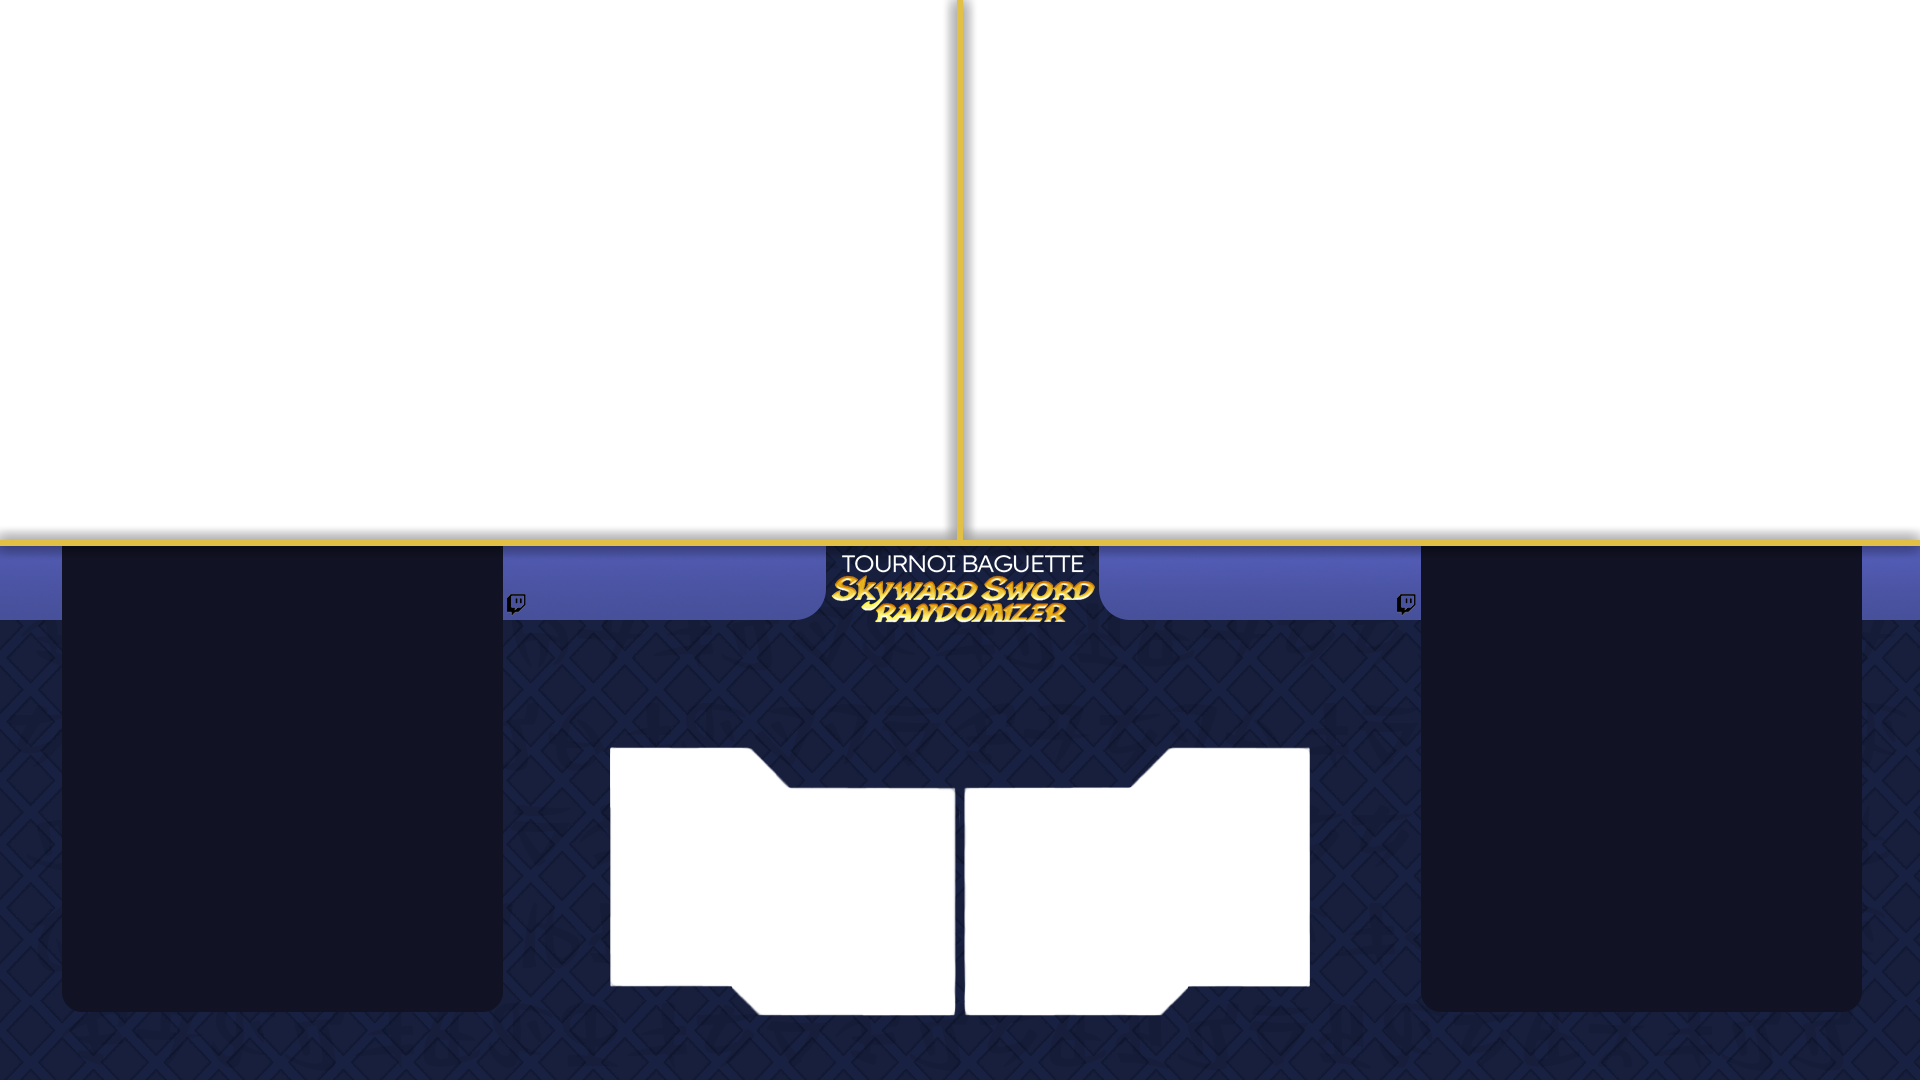
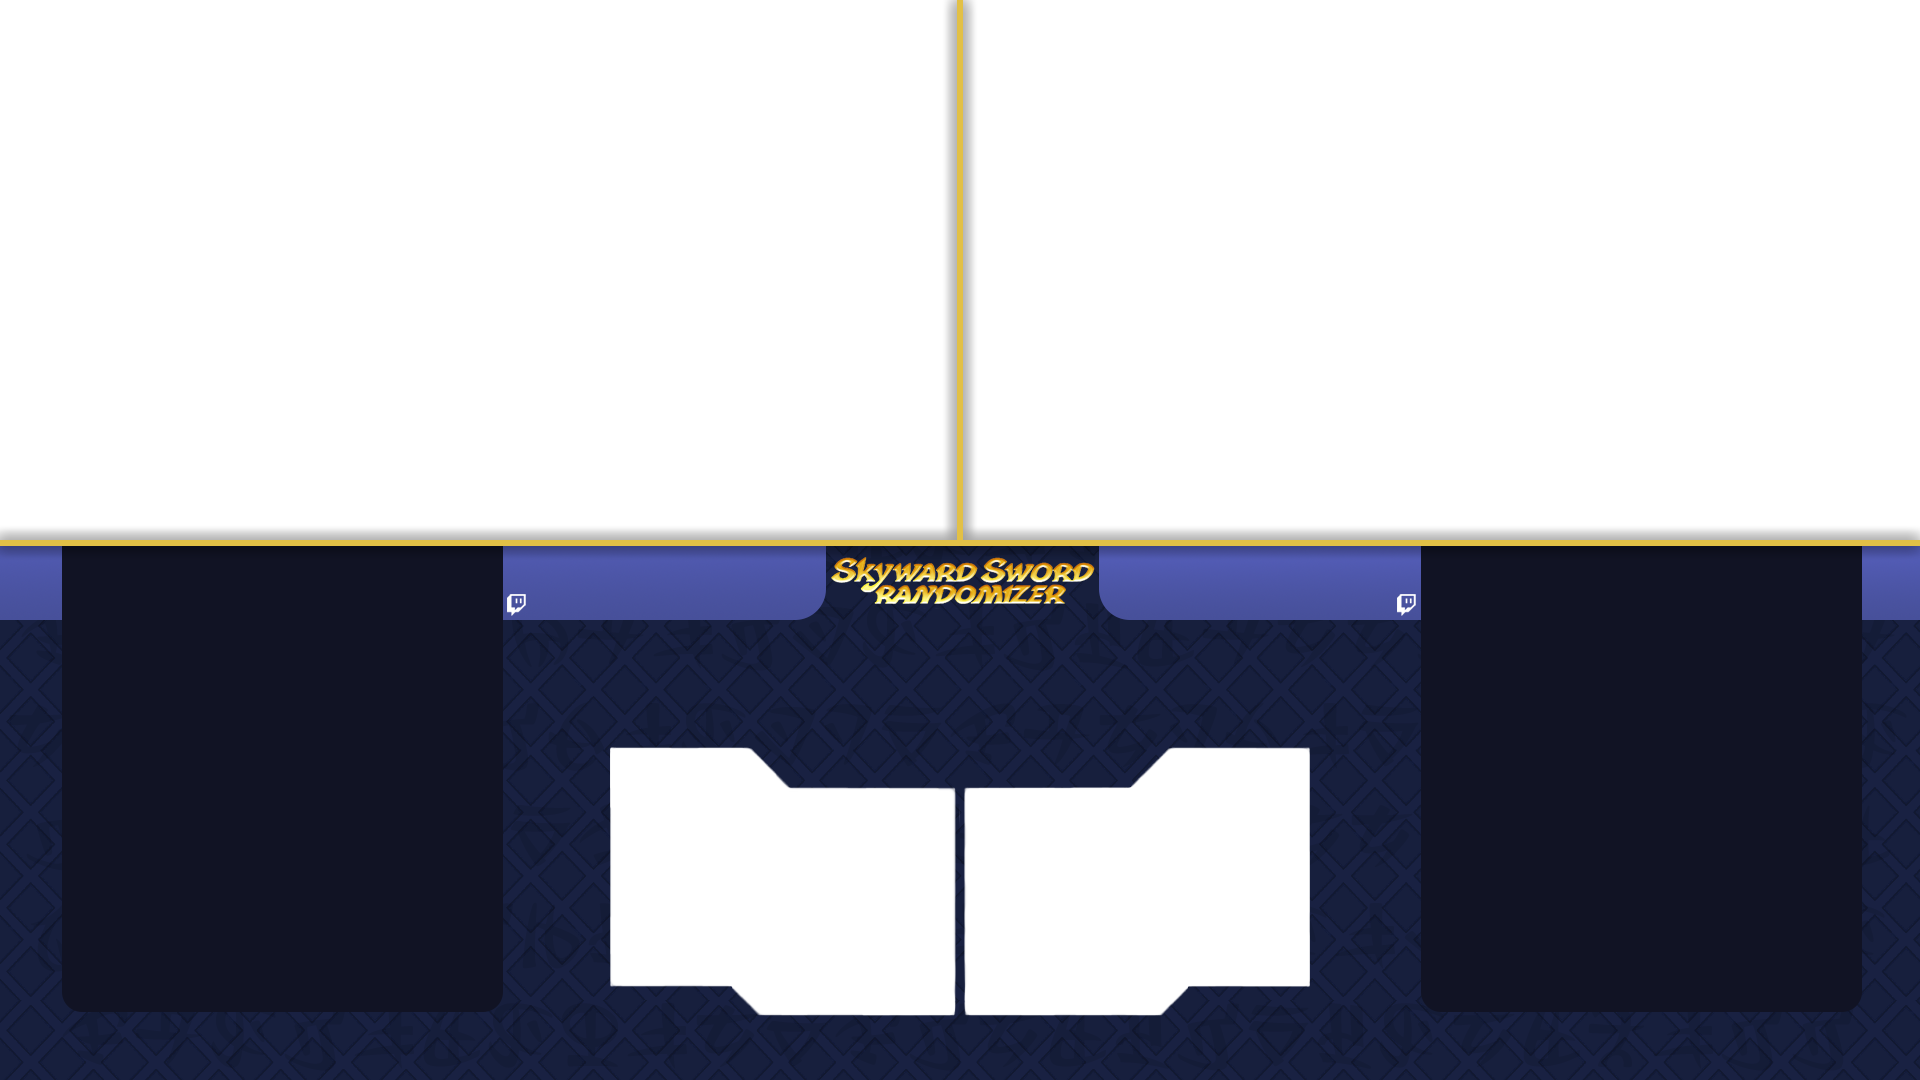
supporte courses casual et permet de raccourcir les noms sur overlays

Changed region(s): [[0.4375, 0.4889, 0.5938, 0.5806], [0.7188, 0.55, 0.75, 0.5806], [0.25, 0.55, 0.2812, 0.5806]]

diff --git a/app/static/overlay/packs/default/live.css b/app/static/overlay/packs/default/live.css
@@ -120,3 +120,40 @@
   transform: scale(0.95);
   transform-origin: top left;
 }
+
+/* -------------------------------------------------- */
+/* Go Mode (overlay)                                  */
+/* -------------------------------------------------- */
+
+.overlay-go-modes {
+  position: absolute;
+  inset: 0;
+  pointer-events: none; /* important pour OBS */
+}
+
+.overlay-go-mode {
+  position: absolute;
+  opacity: 0;
+  transition: opacity 120ms ease;
+}
+
+.overlay-go-mode.is-active {
+  opacity: 1;
+}
+
+/* Go Mode – joueur gauche (slot 1) */
+.overlay-go-mode--slot1 {
+  left: 26%;
+  top: 53%;
+}
+
+/* Go Mode – joueur droit (slot 2) */
+.overlay-go-mode--slot2 {
+  right: 26%;
+  top: 53%;
+}
+.overlay-go-video {
+  width: clamp(156px, 16vw, 228px);
+  height: auto;
+  display: block;
+}

diff --git a/app/templates/restream/overlay_live.html b/app/templates/restream/overlay_live.html
@@ -18,8 +18,8 @@
 
     <!-- Textes -->
     <div class="live-texts">
-      <div class="live-player live-player-left">{{ live.left_name }}</div>
-      <div class="live-player live-player-right">{{ live.right_name }}</div>
+      <div class="live-player live-player-left">{{ live.left_name | overlay_player_name}}</div>
+      <div class="live-player live-player-right">{{ live.right_name | overlay_player_name}}</div>
 
       <div class="live-title">{{ live.title }}</div>
 

diff --git a/app/templates/restream/overlay_next.html b/app/templates/restream/overlay_next.html
@@ -28,11 +28,11 @@
         </div>
 
         <div class="next-player next-player-left">
-          {{ next.left_name }}
+          {{ next.left_name | overlay_player_name}}
         </div>
 
         <div class="next-player next-player-right">
-          {{ next.right_name }}
+          {{ next.right_name | overlay_player_name}}
         </div>
 
         <div class="next-label">

diff --git a/app/templates/restream/overlay_intro.html b/app/templates/restream/overlay_intro.html
@@ -28,11 +28,11 @@
       </div>
 
       <div class="intro-player intro-player-left">
-        {{ intro.left_name }}
+        {{ intro.left_name | overlay_player_name}}
       </div>
 
       <div class="intro-player intro-player-right">
-        {{ intro.right_name }}
+        {{ intro.right_name | overlay_player_name}}
       </div>
 
     </div>

diff --git a/app/admin/routes.py b/app/admin/routes.py
@@ -9,13 +9,14 @@ from werkzeug.security import generate_password_hash
 import os
 from app.modules.text import slugify, _canonical_key, normalize_group_name
 from datetime import datetime
-from app.modules.tournaments import get_tournament_phases
+from app.modules.tournaments import get_tournament_phases, is_reserved_casual_prefix
 import secrets
 import string
 import json
 from app.modules.tracker.registry import get_available_trackers, get_tracker_definition
 from app.modules.tracker.presets import list_presets, create_preset, load_preset, save_preset, rename_preset, delete_preset
 from app.modules.tracker.games.ssr.preset import build_default_preset as ssr_default_preset
+
 
 @admin_bp.route("/")
 @login_required
@@ -204,6 +205,8 @@ def games_add():
         return redirect(url_for("admin.games_list"))
 
     db = get_db()
+
+    # 1) Création du jeu
     db.execute(
         """
         INSERT INTO games (name, short_name, color)
@@ -211,6 +214,41 @@ def games_add():
         """,
         (name, short_name, color)
     )
+
+    # Récupère l'id du jeu fraîchement créé (SQLite)
+    game_id = db.execute("SELECT last_insert_rowid()").fetchone()[0]
+
+    # 2) Auto-création du tournoi CASUAL associé
+    game_slug = slugify(name)  # ou slugify(short_name) si vous préférez un slug plus stable
+    casual_tournament_name = f"[CASUAL] {name}"
+    casual_tournament_slug = f"casual-{game_slug}"
+
+    existing = db.execute(
+        """
+        SELECT id
+        FROM tournaments
+        WHERE game_id = ? AND slug = ?
+        """,
+        (game_id, casual_tournament_slug)
+    ).fetchone()
+
+    if not existing:
+        db.execute(
+            """
+            INSERT INTO tournaments
+                (name, slug, game_id, status, source, metadata, created_at)
+            VALUES (?, ?, ?, ?, 'internal', ?, ?)
+            """,
+            (
+                casual_tournament_name,
+                casual_tournament_slug,
+                game_id,
+                "draft",          # ou "active" si tu veux qu'il soit immédiatement utilisable
+                "",               # metadata
+                datetime.now().isoformat(),
+            )
+        )
+
     db.commit()
 
     flash("Jeu ajouté avec succès.", "success")
@@ -693,6 +731,9 @@ def tournaments_create():
 
         if not name:
             errors["name"] = "Le nom du tournoi est obligatoire."
+            
+        if name and is_reserved_casual_prefix(name):
+            errors["name"] = "Le préfixe [CASUAL] est réservé aux tournois système."
 
         if not game_id:
             errors["game_id"] = "Un jeu doit être sélectionné."
@@ -755,11 +796,14 @@ def admin_tournament_edit(tournament_id):
     if request.method == "POST":
         name = request.form.get("name", "").strip()
         game_id = request.form.get("game_id")
-        status = request.form.get("status")
+        status = request.form.get("status", tournament["status"])
         metadata = request.form.get("metadata", "").strip()
 
         if not name:
             errors["name"] = "Le nom du tournoi est obligatoire."
+            
+        if name and is_reserved_casual_prefix(name):
+            errors["name"] = "Le préfixe [CASUAL] est réservé aux tournois système."
 
         if not game_id:
             errors["game_id"] = "Un jeu doit être sélectionné."
@@ -769,26 +813,26 @@ def admin_tournament_edit(tournament_id):
             abort(400)
 
         # 🔒 Règle métier existante
-        if tournament["status"] == "finished" and status != "finished":
-            flash(
-                "Un tournoi terminé ne peut pas être réactivé.",
-                "error"
-            )
-            return redirect(
-                url_for("admin.admin_tournament_edit", tournament_id=tournament_id)
-            )
+        if not errors :
+            if tournament["status"] == "finished" and status != "finished":
+                flash(
+                    "Un tournoi terminé ne peut pas être réactivé.",
+                    "error"
+                )
+                return redirect(
+                    url_for("admin.admin_tournament_edit", tournament_id=tournament_id)
+                )
 
-        # 🔒 NOUVELLE règle métier (Phase 6)
-        if status == "active" and not phases:
-            flash(
-                "Impossible d'activer le tournoi : aucune phase n'est définie.",
-                "error"
-            )
-            return redirect(
-                url_for("admin.admin_tournament_edit", tournament_id=tournament_id)
-            )
+            # 🔒 NOUVELLE règle métier (Phase 6)
+            if status == "active" and not phases:
+                flash(
+                    "Impossible d'activer le tournoi : aucune phase n'est définie.",
+                    "error"
+                )
+                return redirect(
+                    url_for("admin.admin_tournament_edit", tournament_id=tournament_id)
+                )
 
-        if not errors:
             db.execute(
                 """
                 UPDATE tournaments

diff --git a/app/modules/tournaments.py b/app/modules/tournaments.py
@@ -1,4 +1,6 @@
 import json
+import re
+from flask import abort
 
 def get_tournament_phases(db, tournament_id):
     rows = db.execute(
@@ -42,3 +44,78 @@ def get_tournament_phases(db, tournament_id):
         phases.append(phase)
 
     return phases
+
+
+def is_reserved_casual_prefix(title: str) -> bool:
+    """
+    Returns True if the tournament title uses the reserved [CASUAL] prefix.
+    This prefix is reserved for system-created casual tournaments.
+    """
+    if not title:
+        return False
+
+    return title.strip().upper().startswith("[CASUAL")
+
+def is_casual_tournament(name: str) -> bool:
+    return bool(name) and name.strip().upper().startswith("[CASUAL")
+
+
+def ensure_public_tournament(tournament):
+    if not tournament:
+        return  # important pour laisser le fallback external
+    if tournament["name"] and tournament["name"].strip().upper().startswith("[CASUAL"):
+        abort(404)
+
+
+CASUAL_PREFIX_RE = re.compile(r"^\s*\[CASUAL[^\]]*\]\s*", re.IGNORECASE)
+
+def overlay_tournament_name(name: str) -> str:
+    """
+    Tournament name for OBS overlays: removes [CASUAL...] prefix if present.
+    Keeps the rest unchanged.
+    """
+    if not name:
+        return ""
+    return CASUAL_PREFIX_RE.sub("", name).strip()
+
+
+###########################################
+### pour les noms trop long
+###########################################
+
+
+# 1) mapping exact (le plus sûr)
+OVERLAY_NAME_ALIASES = {
+    "Pacmanpowerghost": "Pacman",
+    "Fireworkspinner": "Firework",
+    "YourAverageLink": "YAL",
+}
+
+# 2) mapping "contient" (exemple au cas où)
+OVERLAY_NAME_CONTAINS = [
+    # (pattern, replacement)
+    (re.compile(r"Team Baguette Ultimate", re.IGNORECASE), "TB Ultimate"),
+]
+
+def overlay_player_name(name: str) -> str:
+    """
+    Return a player name formatted for OBS overlays.
+    - Exact alias mapping first
+    - Then 'contains' replacements
+    - Fallback to original
+    """
+    if not name:
+        return ""
+
+    n = name.strip()
+
+    # exact match first (most predictable)
+    if n in OVERLAY_NAME_ALIASES:
+        return OVERLAY_NAME_ALIASES[n]
+
+    # optional: contains rules
+    for rx, repl in OVERLAY_NAME_CONTAINS:
+        if rx.search(n):
+            return rx.sub(repl, n)
+
+    return n

diff --git a/app/restream/routes.py b/app/restream/routes.py
@@ -21,6 +21,7 @@ from app.modules.tracker.registry import get_available_trackers, get_tracker_def
 from app.modules.tracker.presets import list_presets, load_preset
 from app.restream.queries import get_active_restream_by_slug, get_match_teams, get_next_planned_match_for_overlay, simplify_restream_title, split_commentators
 from app.modules.overlay.registry import resolve_overlay_pack_for_match
+from app.modules.tournaments import overlay_tournament_name
 
 # === Dossiers ===
 
@@ -1407,7 +1408,7 @@ def restream_overlay_intro(slug: str):
         (restream["match_id"],),
     ).fetchone()
 
-    tournament_name = row["tournament_name"] if row and row["tournament_name"] else ""
+    tournament_name = overlay_tournament_name(row["tournament_name"]) if row and row["tournament_name"] else ""
 
     overlay_pack = resolve_overlay_pack_for_match(db, restream["match_id"])
     
@@ -1469,7 +1470,8 @@ def restream_overlay_next(slug: str):
     ).fetchone()
 
     tournament_id = row["tournament_id"] if row else None
-    tournament_name = row["tournament_name"] if row and row["tournament_name"] else ""
+    tournament_name = overlay_tournament_name(row["tournament_name"]) if row and row["tournament_name"] else ""
+    
 
     overlay_pack = resolve_overlay_pack_for_match(db, restream["match_id"])
 

diff --git a/app/__init__.py b/app/__init__.py
@@ -9,6 +9,7 @@ from .database import close_db, get_db
 from app.jinja_filters import display_team_name
 from app.errors import register_error_handlers
 from pathlib import Path
+from app.modules.tournaments import is_casual_tournament, overlay_player_name
 
 login_manager = LoginManager()
 
@@ -51,6 +52,8 @@ def create_app():
     app.jinja_env.filters["format_datetime"] = format_datetime
     app.jinja_env.filters["team_name"] = display_team_name
     app.jinja_env.globals["current_tournament_slug"] = "ssr-s4"
+    app.jinja_env.globals["is_casual_tournament"] = is_casual_tournament
+    app.jinja_env.filters["overlay_player_name"] = overlay_player_name
 
 
     app.config["TOURNAMENTS"] = TOURNAMENTS

diff --git a/app/main/routes.py b/app/main/routes.py
@@ -173,6 +173,7 @@ def tournament(slug):
     ).fetchone()
 
     if tournament:
+        ensure_public_tournament(tournament)
         # -----------------------------
         # Statut PUBLIC (mapping v1)
         # -----------------------------
@@ -272,6 +273,8 @@ def tournament_results(slug):
 
     if not tournament:
         abort(404)
+        
+    ensure_public_tournament(tournament)
 
     # -------------------------------------------------
     # Metadata JSON
@@ -492,6 +495,8 @@ def tournament_bracket(slug):
 
     if not tournament:
         abort(404)
+
+    ensure_public_tournament(tournament)
 
     # -------------------------------------------------
     # Metadata

diff --git a/app/context.py b/app/context.py
@@ -14,6 +14,7 @@ def inject_tournaments():
             status
         FROM tournaments
         WHERE source = 'internal'
+          AND UPPER(TRIM(name)) NOT LIKE '[CASUAL%'
         """
     ).fetchall()
 
